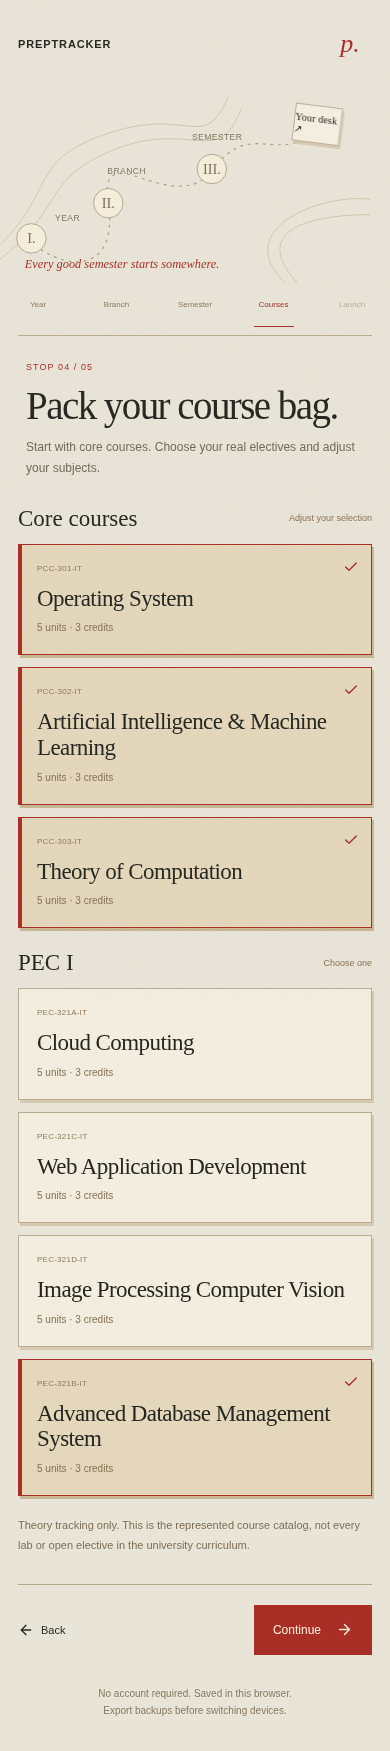
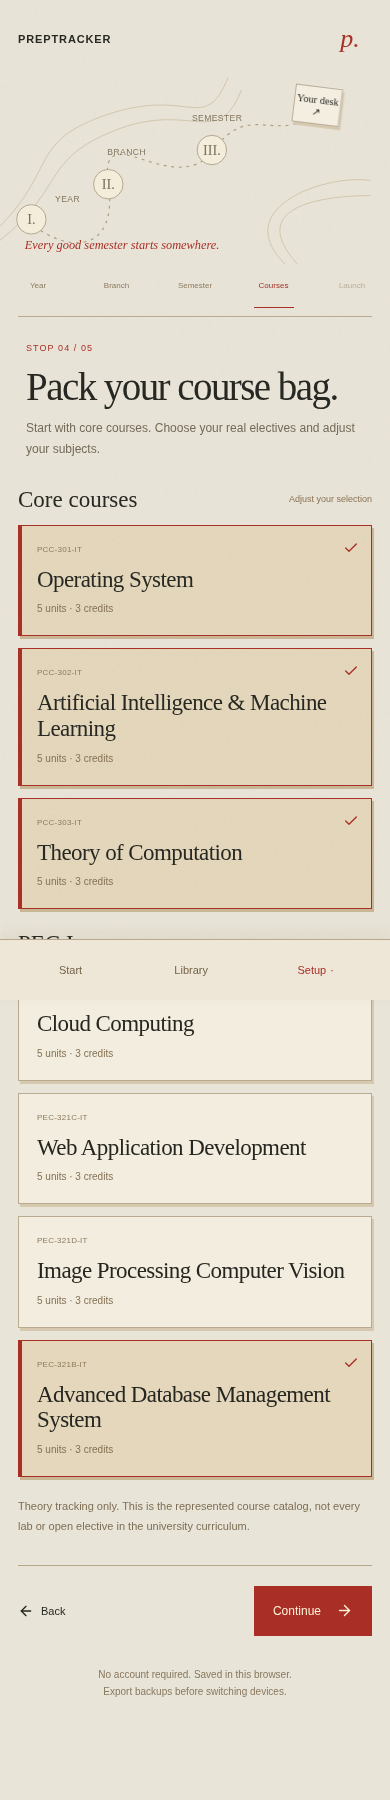
Refine wide Starting Map with live journey and responsive navigation

diff --git a/pages/Onboarding.tsx b/pages/Onboarding.tsx
@@ -1,11 +1,11 @@
-import React,{useState,useEffect}from'react';import{ArrowRight,ArrowLeft,Check,Hexagon,Layers,BookOpen,Shield,ChevronRight}from'lucide-react';import '../map.css';import{useData}from'../context/DataContext';import{CATALOG}from'../lib/catalog';import{selectableCourses,selectionGroup,chooseCourse}from'../lib/onboarding.mjs';
+import EditionNav from '../components/EditionNav';import React,{useState,useEffect}from'react';import{ArrowRight,ArrowLeft,Check,Hexagon,Layers,BookOpen,Shield,ChevronRight}from'lucide-react';import '../map.css';import{useData}from'../context/DataContext';import{CATALOG}from'../lib/catalog';import{selectableCourses,selectionGroup,chooseCourse}from'../lib/onboarding.mjs';
 const STAGES=['Year','Branch','Semester','Courses','Launch'];
 export default function Onboarding(){const{setProfile,profile}=useData();const[step,setStep]=useState(0),[year,setYear]=useState(''),[branch,setBranch]=useState(''),[semester,setSemester]=useState(0),[selected,setSelected]=useState<string[]>([]),[name,setName]=useState(profile?.name||''),[error,setError]=useState(''),[egg,setEgg]=useState(false);
  useEffect(()=>{if(step)document.querySelector('.map-panel')?.scrollIntoView({block:'start'});},[step]);
  const branches=Array.from(new Map(CATALOG.filter(c=>c.year===year).map(c=>[c.branchSlug,c.branch])).entries());const courses=selectableCourses(CATALOG,year,branch,semester);const groups:string[]=[...new Set<string>(courses.map(c=>String(selectionGroup(c)||'Core courses')))];const branchName=branches.find(([id])=>id===branch)?.[1];const held=branch&&!CATALOG.some(c=>c.branchSlug===branch&&c.trackerReady);const semesters=year==='FE'?[1,2]:year==='SE'?[3,4]:[5,6];const ready=step===0?!!year:step===1?!!branch&&!held:step===2?!!semester:step===3?selected.length>0&&groups.filter(g=>g!=='Core courses').every(g=>courses.some(c=>selectionGroup(c)===g&&selected.includes(c.id))):!!name.trim();
  const next=()=>{setError('');if(step===2){setSelected(courses.filter(c=>!selectionGroup(c)).map(c=>c.id));}if(step<4)setStep(step+1);else{try{const p={...profile,name:name.trim(),theme:profile?.theme||'dark',selectedSubjects:selected,setupComplete:true,streak:profile?.streak||0,lastStudyDate:profile?.lastStudyDate||''};localStorage.setItem('sppu_profile',JSON.stringify(p));setProfile(p as any);}catch{setError('Could not save in this browser. Free storage or allow local storage, then try again.');}}};
  const yearInfo=[['FE','First year','The common foundation','I.'],['SE','Second year','Find your discipline','II.'],['TE','Third year','Go deeper into your branch','III.']];const activeYear=yearInfo.find(x=>x[0]===year);
- return <div className="map-page"><header className="map-top"><span>PREPTRACKER</span><button aria-label="A tiny map surprise" aria-pressed={egg} onClick={()=>setEgg(!egg)}>p.</button></header><main className="map-main"><aside className="map-route"><svg viewBox="0 0 390 200" fill="none" aria-hidden="true"><path d="M30 155C70 190 125 190 114 115S185 135 225 80 292 80 341 35" stroke="#ad9c7b" strokeWidth="1.2" strokeDasharray="3 5"/><path d="M0 160C60 100 30 70 115 42s100 22 125-38M300 200c-60-60 45-95 90-88M0 175C70 119 43 90 122 59s107 21 132-42M313 200c-58-64 36-72 77-72" stroke="#cbbd9f" strokeWidth=".8"/></svg><span className={`map-spot ${step===0?'selected':''}`} style={{left:17,top:137}}>I.</span><span className={`map-spot ${step===1?'selected':''}`} style={{left:98,top:100}}>II.</span><span className={`map-spot ${step===2?'selected':''}`} style={{left:207,top:64}}>III.</span><span className="map-destination">Your desk ↗</span><span className="map-route-label" style={{left:58,top:126}}>YEAR</span><span className="map-route-label" style={{left:113,top:76}}>BRANCH</span><span className="map-route-label" style={{left:202,top:41}}>SEMESTER</span><p role="status" className="map-route-note">{egg?'Plot twist: the next chapter is yours.':'Every good semester starts somewhere.'}</p></aside><section className="map-panel"><nav aria-label="Setup steps" className="map-stages">{STAGES.map((s,i)=><button key={s} disabled={i>step} aria-current={i===step?'step':undefined} onClick={()=>setStep(i)}>{s}</button>)}</nav><header className="map-heading"><p className="map-eyebrow">STOP {String(step+1).padStart(2,'0')} / 05</p><h1>{['Where does your story begin?','Find your discipline.','Which semester is yours?','Pack your course bag.','Your pass is ready.'][step]}</h1><p>{['Pick your year. We will find your branch, semester and courses along the way.','The branch you actually study. No directory detour.','One semester at a time, with your existing course history kept intact.','Start with core courses. Choose your real electives and adjust your subjects.','Check your course list, add your name and head to your desk.'][step]}</p></header>
+ return <div className="map-page"><EditionNav setup/><header className="map-top"><span>PREPTRACKER</span><button aria-label="A tiny map surprise" aria-pressed={egg} onClick={()=>setEgg(!egg)}>p.</button></header><main className="map-main"><aside className="map-left"><div className="map-route"><svg viewBox="0 0 390 200" fill="none" aria-hidden="true"><path d="M30 155C70 190 125 190 114 115S185 135 225 80 292 80 341 35" stroke="#ad9c7b" strokeWidth="1.2" strokeDasharray="3 5"/><path d="M0 160C60 100 30 70 115 42s100 22 125-38M300 200c-60-60 45-95 90-88M0 175C70 119 43 90 122 59s107 21 132-42M313 200c-58-64 36-72 77-72" stroke="#cbbd9f" strokeWidth=".8"/></svg><span className={`map-spot ${step===0?'selected':''}`} style={{left:17,top:137}}>I.</span><span className={`map-spot ${step===1?'selected':''}`} style={{left:98,top:100}}>II.</span><span className={`map-spot ${step===2?'selected':''}`} style={{left:207,top:64}}>III.</span><button className="map-destination" aria-label="A desk map surprise" aria-pressed={egg} onClick={()=>setEgg(!egg)}>Your desk ↗</button><span className="map-route-label" style={{left:58,top:126}}>YEAR</span><span className="map-route-label" style={{left:113,top:76}}>BRANCH</span><span className="map-route-label" style={{left:202,top:41}}>SEMESTER</span><p role="status" className="map-route-note">{egg?'Plot twist: the next chapter is yours.':'Every good semester starts somewhere.'}</p></div><div className="map-journey"><p className="map-eyebrow">YOUR STARTING MAP</p><h2>Five stops.<br/><i>One study space.</i></h2><ol>{STAGES.map((title,i)=><li key={title} className={i===step?'current':i<step?'complete':''}><button disabled={i>step} onClick={()=>setStep(i)}><span>{i<step?'✓':String(i+1).padStart(2,'0')}</span><div><strong>{title}</strong><small>{[activeYear?.[1]||'Choose your year',branchName||'Your discipline',semester?`Semester ${semester}`:'Your current semester',selected.length?`${selected.length} courses packed`:'Core courses and real electives',name?`A desk for ${name}`:'Name, review, begin'][i]}</small></div>{i===step&&<b>←</b>}</button></li>)}</ol><div className="map-safety"><span>YOUR HISTORY STAYS WITH YOU</span><p>Setup changes your course shelf. Existing progress, tasks and revision logs are kept.</p><p>Selections save only when you launch. Leaving setup before launch discards this draft.</p></div></div></aside><section className="map-panel"><nav aria-label="Setup steps" className="map-stages">{STAGES.map((s,i)=><button key={s} disabled={i>step} aria-current={i===step?'step':undefined} onClick={()=>setStep(i)}>{s}</button>)}</nav><header className="map-heading"><p className="map-eyebrow">STOP {String(step+1).padStart(2,'0')} / 05</p><h1>{['Where does your story begin?','Find your discipline.','Which semester is yours?','Pack your course bag.','Your pass is ready.'][step]}</h1><p>{['Pick your year. We will find your branch, semester and courses along the way.','The branch you actually study. No directory detour.','One semester at a time, with your existing course history kept intact.','Start with core courses. Choose your real electives and adjust your subjects.','Check your course list, add your name and head to your desk.'][step]}</p></header>
  {step===0&&<><div className="map-pass-stack"><div className="map-pass-ghost"/><article className="map-pass"><header><span>THE STUDENT EDITION</span><span>2024 PATTERN</span></header><div><span className="map-roman">{activeYear?.[3]||'?.'}</span><section><h2>{activeYear?.[1]||'Your year'}</h2><p>{activeYear?.[2]||'Choose your starting point below'}</p></section></div><footer><span>{year||'FE / SE / TE'} ENGINEERING</span><span>{year?'SELECTED ✓':'YOUR STARTING POINT'}</span></footer></article></div><div className="map-year-options">{yearInfo.map(([id,title])=><button key={id} aria-label={`${id} ENGINEERING ${title}`} aria-pressed={year===id} onClick={()=>{setYear(id);setBranch(id==='FE'?'fe':'');setSemester(0);setSelected([]);}}>{id}<small>{title}</small></button>)}</div></>}
  {step===1&&<div className="map-branch-grid">{branches.map(([id,title])=>{const available=CATALOG.some(c=>c.branchSlug===id&&c.trackerReady);return <button key={id} aria-pressed={branch===id} className={`map-choice ${branch===id?'chosen':''}`} onClick={()=>{setBranch(id);setSemester(0);setSelected([]);}}><small>{year} · {available?'TRACKING AVAILABLE':'REFERENCE ONLY'}</small><h3>{title}</h3><span className="choice-check">{branch===id&&<Check size={16}/>}</span></button>})}</div>}
  {held&&step===1&&<p className="map-warning">{branch==='se-cyber-security'?'The official Cyber PDF disagrees with itself. Tracking is held until its course tables and detailed units agree.':'This branch is based on a draft source. Tracking is held until the curriculum is confirmed.'} Choose another supported branch to build a tracker; reference pages remain available.</p>}

diff --git a/map.css b/map.css
@@ -3,3 +3,7 @@
 @media(max-width:400px){.map-branch-grid,.map-course-grid{grid-template-columns:1fr}.map-choice h3{font-size:23px}.map-summary{display:none}.map-pass{padding:20px 18px}.map-pass>div{gap:17px}.map-pass h2{font-size:23px}.map-heading h1{font-size:39px}.map-top{padding:22px 18px}.map-main{padding-left:18px;padding-right:18px}.map-route{margin-left:-18px;margin-right:-18px}.map-stages button{font-size:8px;min-width:40px}.map-route svg{width:390px;max-width:none}.map-route{transform:scale(.95);transform-origin:left top;margin-bottom:-10px}}
 @media(prefers-reduced-motion:reduce){.map-page *{transition:none!important;scroll-behavior:auto!important}}
 .map-choice .choice-check{position:absolute;right:12px;top:14px;color:#a92e25}.map-choice small{padding-right:20px}.map-choice .choice-check svg{width:16px;height:16px}
+.map-journey{display:none}.map-left{min-width:0}.map-top{padding-top:17px;padding-bottom:8px}
+@media(min-width:900px){.map-top{display:none}.map-main{max-width:1320px;grid-template-columns:minmax(310px,.92fr) minmax(0,1.3fr);gap:50px;padding:34px 35px 40px}.map-left{align-self:start}.map-route{position:relative;top:auto;transform:none;margin:0;height:207px;width:390px;max-width:100%}.map-panel{padding:28px 35px;min-height:720px;box-shadow:none;background:#f0e9da;border:1px solid #c3b394;box-shadow:4px 5px 0 #d1c3a7}.map-journey{display:block;padding:15px 27px 0 16px}.map-journey h2{font:43px/1.06 Georgia;letter-spacing:-.035em;margin:15px 0 25px}.map-journey h2 i{color:#a92e25}.map-journey ol{list-style:none}.map-journey li{border-top:1px solid #c2b295}.map-journey li:last-child{border-bottom:1px solid #c2b295}.map-journey li button{width:100%;display:flex;text-align:left;align-items:center;padding:15px 0;gap:15px;min-height:64px}.map-journey li button>span{font:20px Georgia;width:33px;color:#9b855f}.map-journey li strong{font:21px Georgia;display:block}.map-journey li small{display:block;margin-top:5px;font-size:10px;color:#877152;line-height:1.5}.map-journey li button>b{margin-left:auto;color:#a92e25}.map-journey li.current strong,.map-journey li.current button>span,.map-journey li.complete button>span{color:#a92e25}.map-journey li button:disabled{opacity:.65}.map-safety{margin-top:27px;border-left:2px solid #a92e25;padding:3px 0 3px 15px}.map-safety span{font-size:8px;letter-spacing:.1em;color:#a92e25}.map-safety p{font-size:11px;line-height:1.8;color:#7d6b4c;margin-top:8px}.map-heading{margin-top:25px}.map-heading h1{max-width:500px}.map-pass-stack{margin-top:36px;margin-bottom:30px}.map-year-options{margin-top:35px;margin-bottom:36px}.map-actions{margin-top:33px}.map-privacy{max-width:1320px;margin:auto;border-top:1px solid #c3b394;padding-top:20px}}
+
+.map-page{min-height:100vh;background:#e9e4d8}.map-page .edition-nav a{color:#746347}

diff --git a/edition-nav.css b/edition-nav.css
@@ -1,0 +1,4 @@
+.edition-nav{max-width:1320px;margin:auto;display:flex;justify-content:space-between;align-items:center;gap:30px;padding:22px 35px;border-bottom:1px solid #bcad90;color:#302c23;background:#e9e4d8}.edition-nav .edition-nav-brand{font:italic 32px Georgia;color:#a92e25;display:flex;align-items:center;gap:18px}.edition-nav-brand>span{font:9px Arial;letter-spacing:.12em;color:#675b45}.edition-nav-brand small{display:block;font-size:7px;letter-spacing:.1em;margin-top:5px;color:#928061}.edition-nav>div{display:flex;align-items:center;gap:23px}.edition-nav>div>a{font-size:10px;color:#746347;min-height:44px;display:flex;align-items:center;gap:4px;white-space:nowrap}.edition-nav>div>a>span{color:transparent}.edition-nav>div>a[aria-current]{color:#a92e25}.edition-nav>div>a[aria-current]>span{color:#a92e25}.edition-nav a:focus-visible{outline:2px solid #a92e25;outline-offset:3px}
+@media(max-width:899px){.edition-nav{padding:0;border:0;max-width:none}.edition-nav .edition-nav-brand{display:none}.edition-nav>div{position:fixed;z-index:50;left:0;right:0;bottom:0;padding:8px 14px max(8px,env(safe-area-inset-bottom));gap:0;justify-content:space-between;border-top:1px solid #b6a789;background:#eee7d8;box-shadow:0 -5px 14px #6a542314;overflow-x:auto}.edition-nav>div>a{padding:0 7px;font-size:9px;min-height:44px;justify-content:center}.edition-nav.setup-nav>div>a{flex:1;font-size:11px}.map-page,.notebook-page,.desk-page,.library-page{padding-bottom:68px}}
+@media(max-width:350px){.edition-nav>div{padding:6px 6px}.edition-nav>div>a{font-size:8px;padding:0 4px}}
+@media print{.edition-nav{display:none!important}}

diff --git a/components/EditionNav.tsx b/components/EditionNav.tsx
@@ -1,0 +1,2 @@
+import React from 'react';import {Link,useLocation} from 'react-router-dom';import '../edition-nav.css';
+export default function EditionNav({setup=false}:{setup?:boolean}){const location=useLocation();const items=setup?[['Start','/landing'],['Library','/directory'],['Setup','/onboarding']]:[['Desk','/'],['Plan','/planner'],['Revision','/study'],['Tasks','/tasks'],['Marks','/calculator'],['Library','/directory'],['Settings','/settings']];return <nav className={`edition-nav ${setup?'setup-nav':''}`} aria-label={setup?'Setup navigation':'Main navigation'}><Link className="edition-nav-brand" to={setup?'/landing':'/'}>p.<span>PREPTRACKER<small>THE STUDY EDITION</small></span></Link><div>{items.map(([name,to])=><Link key={to} to={to} aria-current={location.pathname===to?'page':undefined}>{name}<span>·</span></Link>)}</div></nav>}
